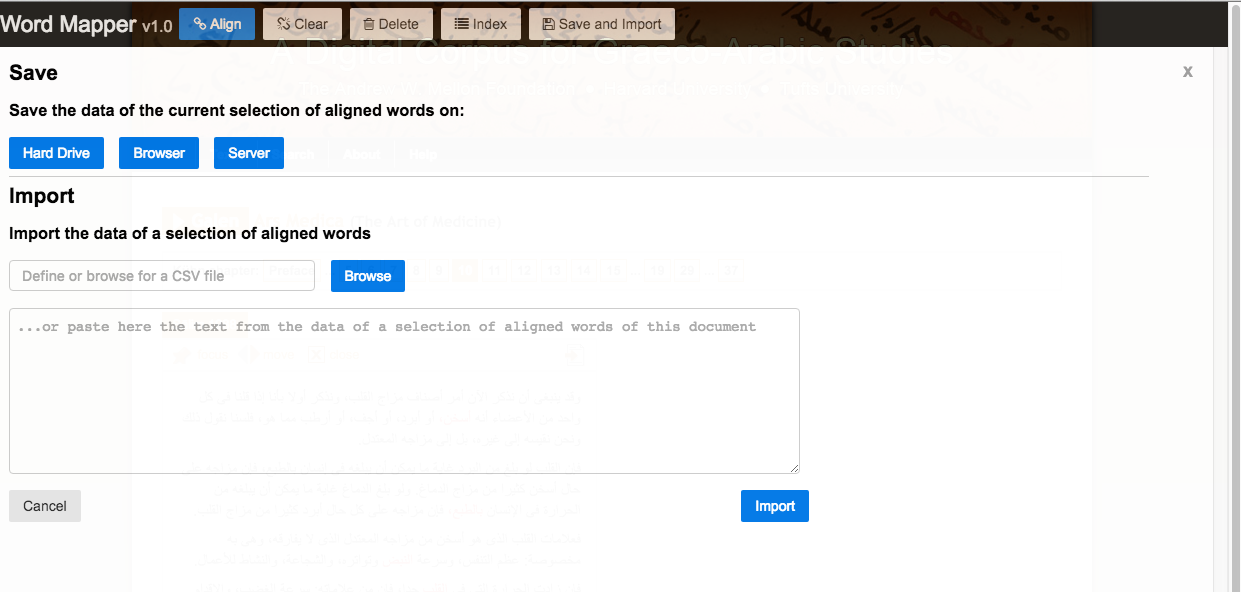
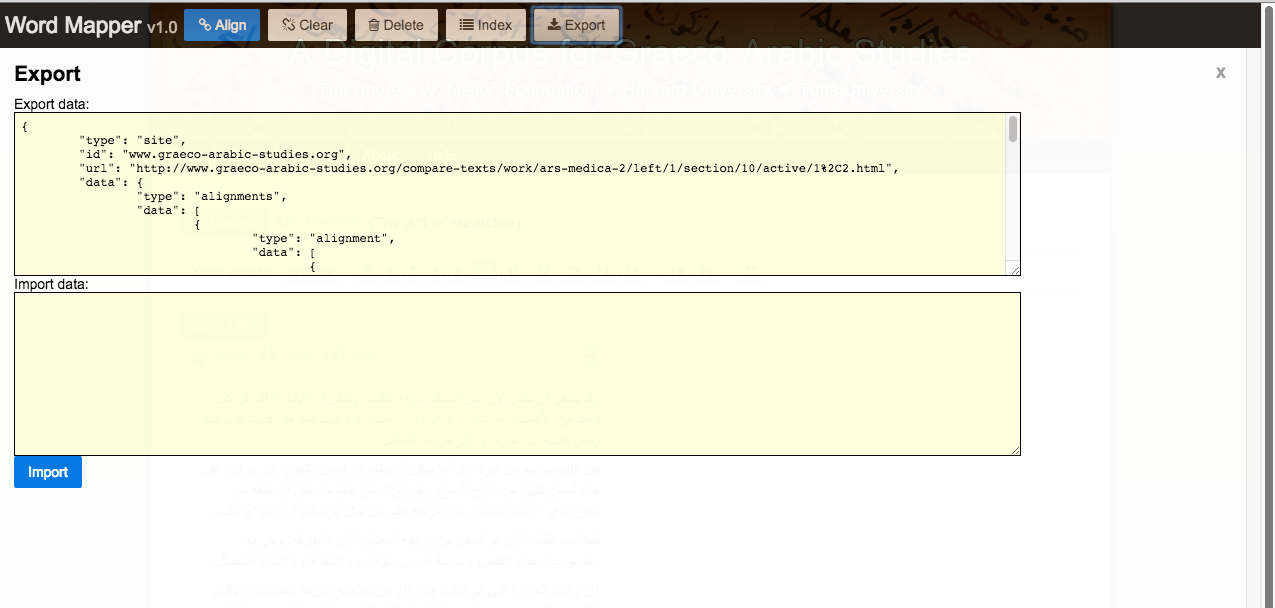
WordMapper_widget_export, current screen and UI

diff --git a/WordMapper_widget_export/index.html b/WordMapper_widget_export/index.html
@@ -7,64 +7,75 @@
     <button name="clear_highlights" class="wordmapper-tooltip" alt="Clear highlighted words"><i class="fa fa-unlink"></i> Clear</button>
     <button name="clear_alignments" class="wordmapper-tooltip" alt="Delete alignments" data-confirm="Are you sure you want to delete *ALL* alignments on this page?"><i class="fa fa-trash-o"></i> Delete</button>
     <button name="build_index" class="wordmapper-tooltip" alt="Build index of alignments"><i class="fa fa-list"></i> Index</button>
-    <button name="export" class="wordmapper-tooltip" alt="Export the alignments"><i class="fa fa-save"></i> Save and Import</button>
+    <button name="export" class="wordmapper-tooltip" alt="Export the alignments"><i class="fa fa-download"></i> Export</button>
   </div>
 </div>
 
 <div class="wordmapper wordmapper-overlay ">
   
-    <h2>Save</h2>
+    <h2>Export</h2>
   
   <div class="wordmapper-dismiss" title="Dismiss" popout-exclude=""></div>
   <div class="wordmapper-overlay-content">
   <div>
+<!-- wordmapper/client/src/html/export.html -->
+Export data:
+<textarea name="export" class="json">{
+	"type": "site",
+	"id": "www.graeco-arabic-studies.org",
+	"url": "http://www.graeco-arabic-studies.org/compare-texts/work/ars-medica-2/left/1/section/10/active/1%2C2.html",
+	"data": {
+		"type": "alignments",
+		"data": [
+			{
+				"type": "alignment",
+				"data": [
+					{
+						"type": "word",
+						"data": {
+							"index": "20",
+							"source": "40e772cc89ee7f97a5cbfb544a464d41b43b3694",
+							"value": "أسخن،"
+						}
+					},
+					{
+						"type": "word",
+						"data": {
+							"index": "75",
+							"source": "40e772cc89ee7f97a5cbfb544a464d41b43b3694",
+							"value": "بالطبع،"
+						}
+					}
+				]
+			},
+			{
+				"type": "alignment",
+				"data": [
+					{
+						"type": "word",
+						"data": {
+							"index": "103",
+							"source": "40e772cc89ee7f97a5cbfb544a464d41b43b3694",
+							"value": "النبض"
+						}
+					},
+					{
+						"type": "word",
+						"data": {
+							"index": "113",
+							"source": "40e772cc89ee7f97a5cbfb544a464d41b43b3694",
+							"value": "القلب"
+						}
+					}
+				]
+			}
+		]
+	}
+}</textarea>
 
-<!-- UI comment -  -->
-<h3>Save the data of the current selection of aligned words on:</h3>
-
-    <button class="primary wordmapper-import">Hard Drive</button>
-    &nbsp;&nbsp;
-    <button class="primary wordmapper-import">Browser</button>
-    &nbsp;&nbsp;
-    <button class="primary wordmapper-import">Server</button>
-
-    <hr style="height:1px;border:none;color:#ccc;background-color:#ccc;" />
-  
-    <h2>Import</h2>
-
-<h3>Import the data of a selection of aligned words</h3>
-
-    <input type="text" placeholder="Define or browse for a CSV file" style="
-	height: 1.25em;
-	width: 20em;
-    padding: 6px 12px;
-    font-size: 14px;
-    line-height: 1.42857143;
-    color: #555;
-    background-color: #fff;
-    background-image: none;
-    border: 1px solid #ccc;
-    border-radius: 4px;" >
-    &nbsp;&nbsp;
-    <button class="primary wordmapper-import">Browse</button>
-<br>&nbsp;<br>
-
-<!-- UI comment- sorry but I cannot figure out why I can't change the font face to match the one of the above input form  -->
-	<div style="width:80%">
-		<textarea name="import" placeholder="...or paste here the text from the data of a selection of aligned words of this document" class="json" style="
-        font-size: 14px;
-		    line-height: 1.42857143;
-		    color: #555;
-		    background-color: #fff;
-		    background-image: none;
-		    border: 1px solid #ccc;
-		    border-radius: 4px;
-        font: BlinkMacSystemFont;"></textarea>
-<br>
-	<button class="default wordmapper-import" style="margin-right:8em">Cancel</button>
-  <button class="primary wordmapper-import pull-right" style="margin-right:8em">Import</button>
-	<span class="wordmapper-import-messages"></span></div>
-
-</div></div>
+Import data:
+<textarea name="import" class="json"></textarea>
+<button class="primary wordmapper-import">Import</button>
+<span class="wordmapper-import-messages"></span></div></div>
   
 </div>
